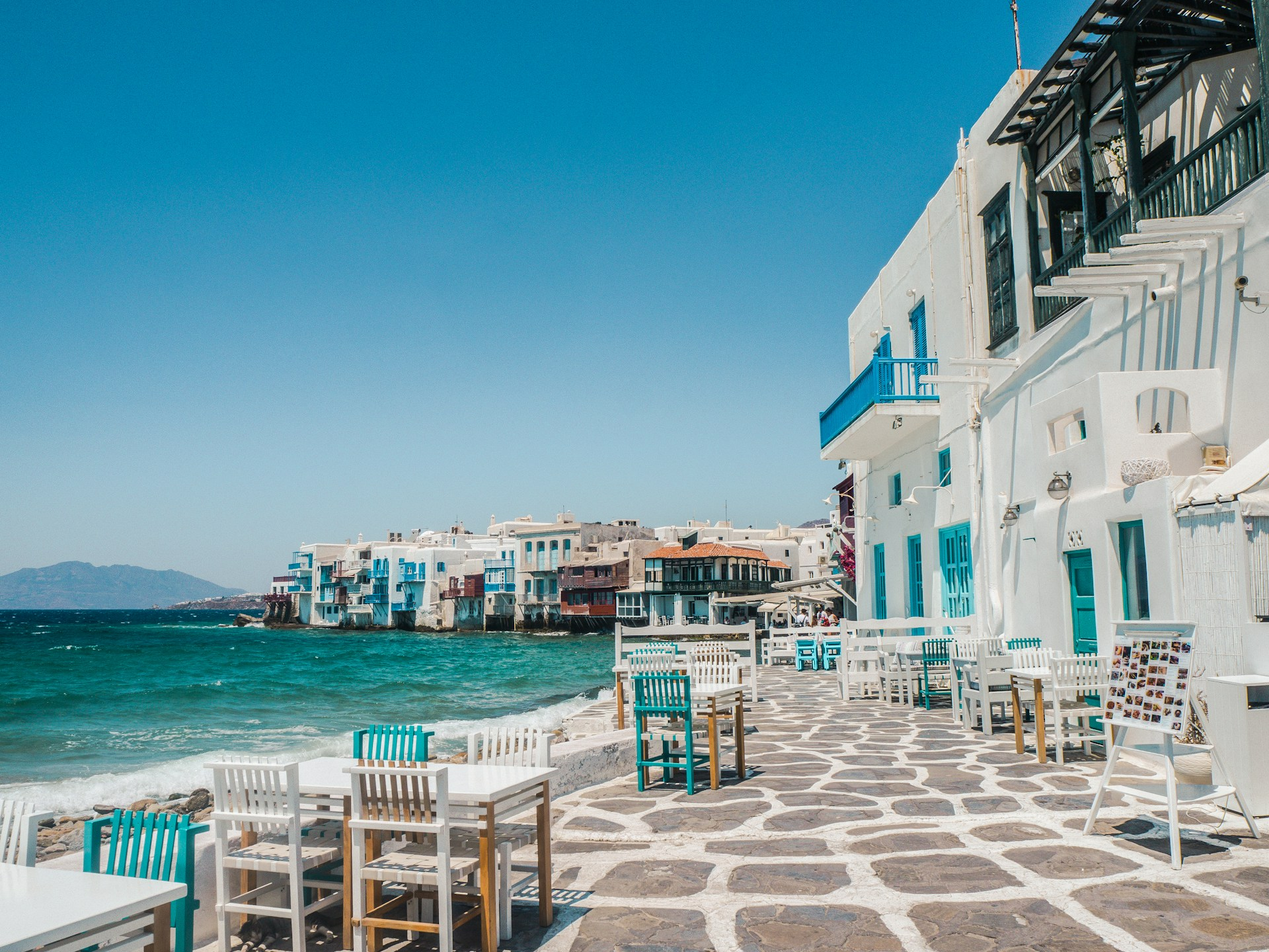
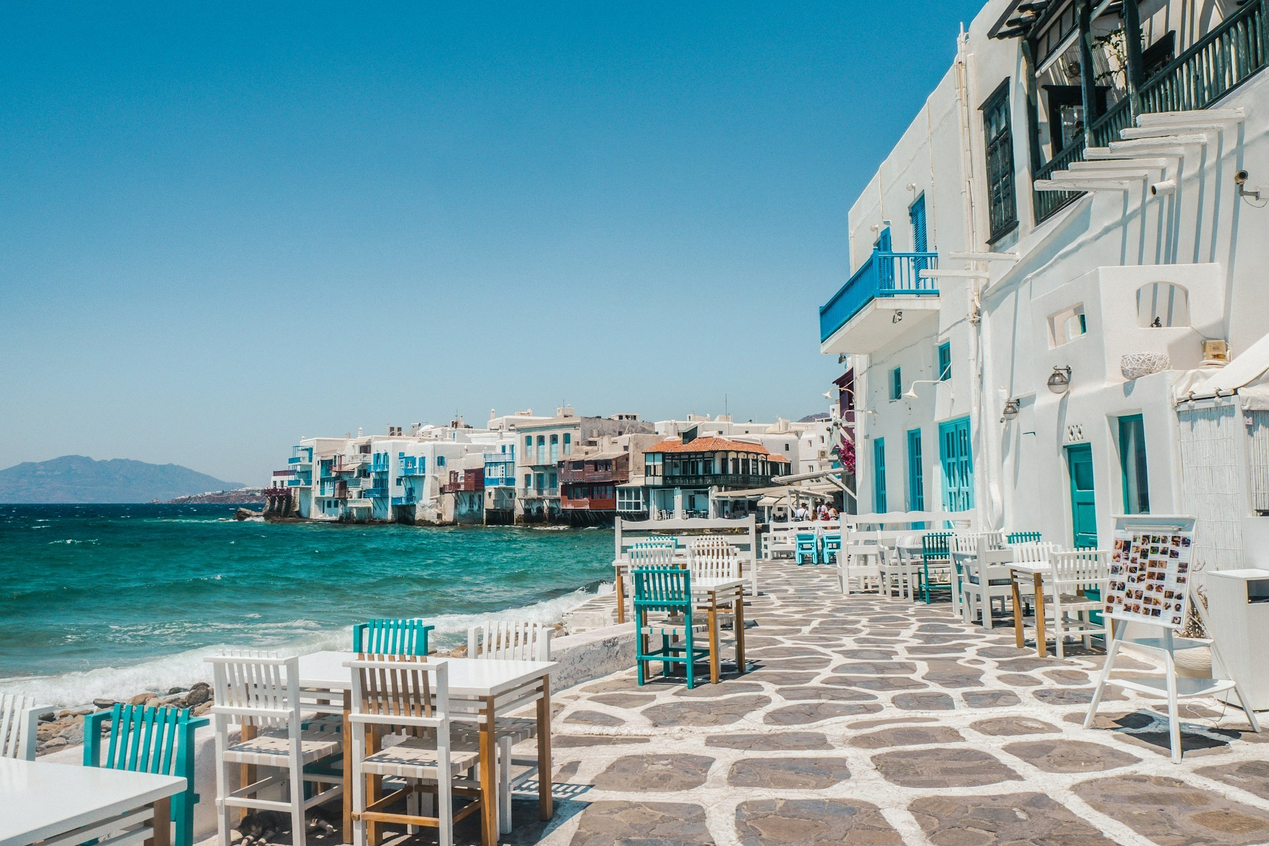
feat: relative-travel.html css style and media query

diff --git a/week9/relative-travel.html b/week9/relative-travel.html
@@ -4,36 +4,70 @@
     <meta charset="UTF-8">
     <meta name="viewport" content="width=device-width, initial-scale=1.0">
     <title>Travel</title>
+    <link rel="stylesheet" href="css/relative-travel.css">
 </head>
 <body>
 
 <div id="container">
-    <div class="relative_container">
-        <div class="card">
-            <img src="images/greecein.jpg" alt="greece" width="100%" height="auto">
+    <div class="travelcontainer">
+        <div>
+            <div class="card">
+            <img class="card-image" src="images/greecein.jpg" alt="greece" width="100%" height="auto">
             <div>
                 <h1>Trip to Greece</h1>
                 <p>14 - 29 June| by Robbin Williams</p>
             </div>
-            <div>
+            <div class="icons">
                 <img src="images/leaf.png" alt="leaf" width="24" height="24">
                 <img src="images/map.png" alt="map" width="24" height="24">
                 <img src="images/navi.png" alt="navi" width="24" height="24">
             </div>
             <div class="building">
-                <p><img src="images/building.png" alt="building" width="24" height="24">24 people going</p>
+                <p class="people"><img src="images/building.png" alt="building" width="24" height="24">24 people going</p>
                 <div><img src="images/heart.png" alt="heart" width="24" height="24"></div>
             </div>
-        <div class="overlap"> 
-            <img src="images/romeout.jpg" alt="rome" width="100%" height="auto">
+            </div>
+            <div class="absolute"> 
+            <img class="rome" src="images/romeout.jpg" alt="rome" width="50" height="50">
             <div class="rome_content">
-                <div>Ongoing</div>
+                <p>Ongoing</p>
                 <h2>Trip to rome</h2>
-                <p>40% completed</p>
-                <div class="progress_bar"></div>
+                <p><span class="progress-no">40%</span><span class="progress-text"> completed</span></p>
+                <div class="progress_bar">
+                    <div>40%</div>
+                </div>
+            </div>
             </div>
         </div>
-       
+
+        <div>
+            <div class="card">
+            <img class="card-image" src="images/greeceout.jpg" alt="greece" width="100%" height="auto">
+            <div>
+                <h1>Trip to Greece</h1>
+                <p>14 - 29 June| by Robbin Williams</p>
+            </div>
+            <div class="icons">
+                <img src="images/leaf.png" alt="leaf" width="24" height="24">
+                <img src="images/map.png" alt="map" width="24" height="24">
+                <img src="images/navi.png" alt="navi" width="24" height="24">
+            </div>
+            <div class="building">
+                <p class="people"><img src="images/building.png" alt="building" width="24" height="24">24 people going</p>
+                <div><img src="images/heart.png" alt="heart" width="24" height="24"></div>
+            </div>
+            </div>
+            <div class="absolute"> 
+            <img class="rome" src="images/romein.jpg" alt="rome" width="50" height="50">
+            <div class="rome_content">
+                <p>Ongoing</p>
+                <h2>Trip to rome</h2>
+                <p><span class="progress-no">40%</span><span class="progress-text"> completed</span></p>
+                <div class="progress_bar">
+                    <div>40%</div>
+                </div>
+            </div>
+            </div>
         </div>
     </div>
 </div>

diff --git a/week9/css/relative-travel.css b/week9/css/relative-travel.css
@@ -1,0 +1,136 @@
+* {
+            padding: 0;
+            margin: 0;
+            box-sizing: border-box;
+        }
+
+        #container {
+            max-width: 1800px;
+            margin: auto;
+        }
+
+    :root {
+        --font-family: 'Arial', sans-serif;
+        --border-radius: 10px;
+        --box-shadow: 10px 10px 12px #d1d2d4, -10px -10px 12px rgb(174, 206, 240);;
+        --p--font-color: grey;
+        --span--font-color: #4b1e5f;
+    }
+
+    body {
+        font-family: var(--font-family);
+    }
+
+    div.travelcontainer {
+        display: flex;
+        justify-content: space-between;
+        margin: 40px;
+        
+    }
+
+    div.travelcontainer>div{
+        width:45%;
+        position: relative;
+    }
+
+    div.card {
+        display: flex;
+        flex-direction: column;
+        width: 90%;
+        border-radius: var(--border-radius);
+        box-shadow: var(--box-shadow);
+        padding: 20px;
+        gap: 10px;
+    }
+
+    div.building {
+        display: flex;
+        justify-content: space-between;
+    }
+
+    .card-image {
+       border-radius: var(--border-radius);
+    }
+
+    p {
+        color: var(--p--font-color);
+    }
+
+    h1 {
+        font-size: 25px;
+        margin-bottom: 10px;
+    }
+
+    div.icons {
+        display: flex;
+        gap: 10px;
+    }
+
+    p.people {
+        display: flex;
+        align-items: center;
+        gap: 10px;
+    }
+
+    div.absolute {
+        position: absolute;
+        right: 0;
+        bottom: 20%;
+        border-radius: var(--border-radius);
+        background-color: white;
+        padding: 20px;
+        box-shadow:  10px 10px 12px #d1d2d4;
+        display: flex;
+        gap: 10px;
+    }
+
+    span.progress-no {
+        color: var(--span--font-color);
+    }
+
+    span.progress-text {
+        font-weight: bold;
+    }
+
+    div.progress_bar {
+        color: transparent;
+        background-color: grey;
+        width: 100%;
+        height: 5px;
+        border-radius: var(--border-radius);
+    }
+
+    div.progress_bar > div {
+        color: transparent;
+        background-color: var(--span--font-color);
+        width: 40%;
+        height: 100%;
+        border-radius: var(--border-radius);
+    }
+
+    .rome {
+        border-radius: 50%;
+    }
+
+    h2 {
+        font-size: 18px;
+        margin: 10px 0px;
+    }
+
+
+      @media screen and (max-width: 840px) {
+        div.travelcontainer>div {
+            width: 100%;
+        }
+
+        div.travelcontainer {
+                flex-direction: column;
+                gap: 30px;
+        }
+      }
+
+
+
+  
+
+  

diff --git a/week9/css/relative.css b/week9/css/relative.css
@@ -14,15 +14,17 @@
         /* === ROOT VARIABLES === */
     :root {
         --font-family: 'Domine', serif;
-        --background-color: #F5F5DC;
+        --body-background-color: #F5F5DC;
         --border-radius: 8px;
         --text-align: center;
         --color-link: #008000;
+        --box-shadow: 5px 8px 5px #d4d1d1;
+        --background-color: #F5F5F5;
 }
 
     body {
         font-family: var(--font-family);
-        background-color: var(--background-color);
+        background-color: var(--body-background-color);
     }
 
     h1 {
@@ -71,8 +73,8 @@
         position: relative;
         bottom: 80px;
         border-radius: var(--border-radius);
-        background-color: #F5F5F5;
-        box-shadow: 5px 8px 5px #d4d1d1;
+        background-color: var(--background-color);
+        box-shadow: var(--box-shadow);
         display: flex;
         flex-direction: column;
         align-items: center;
